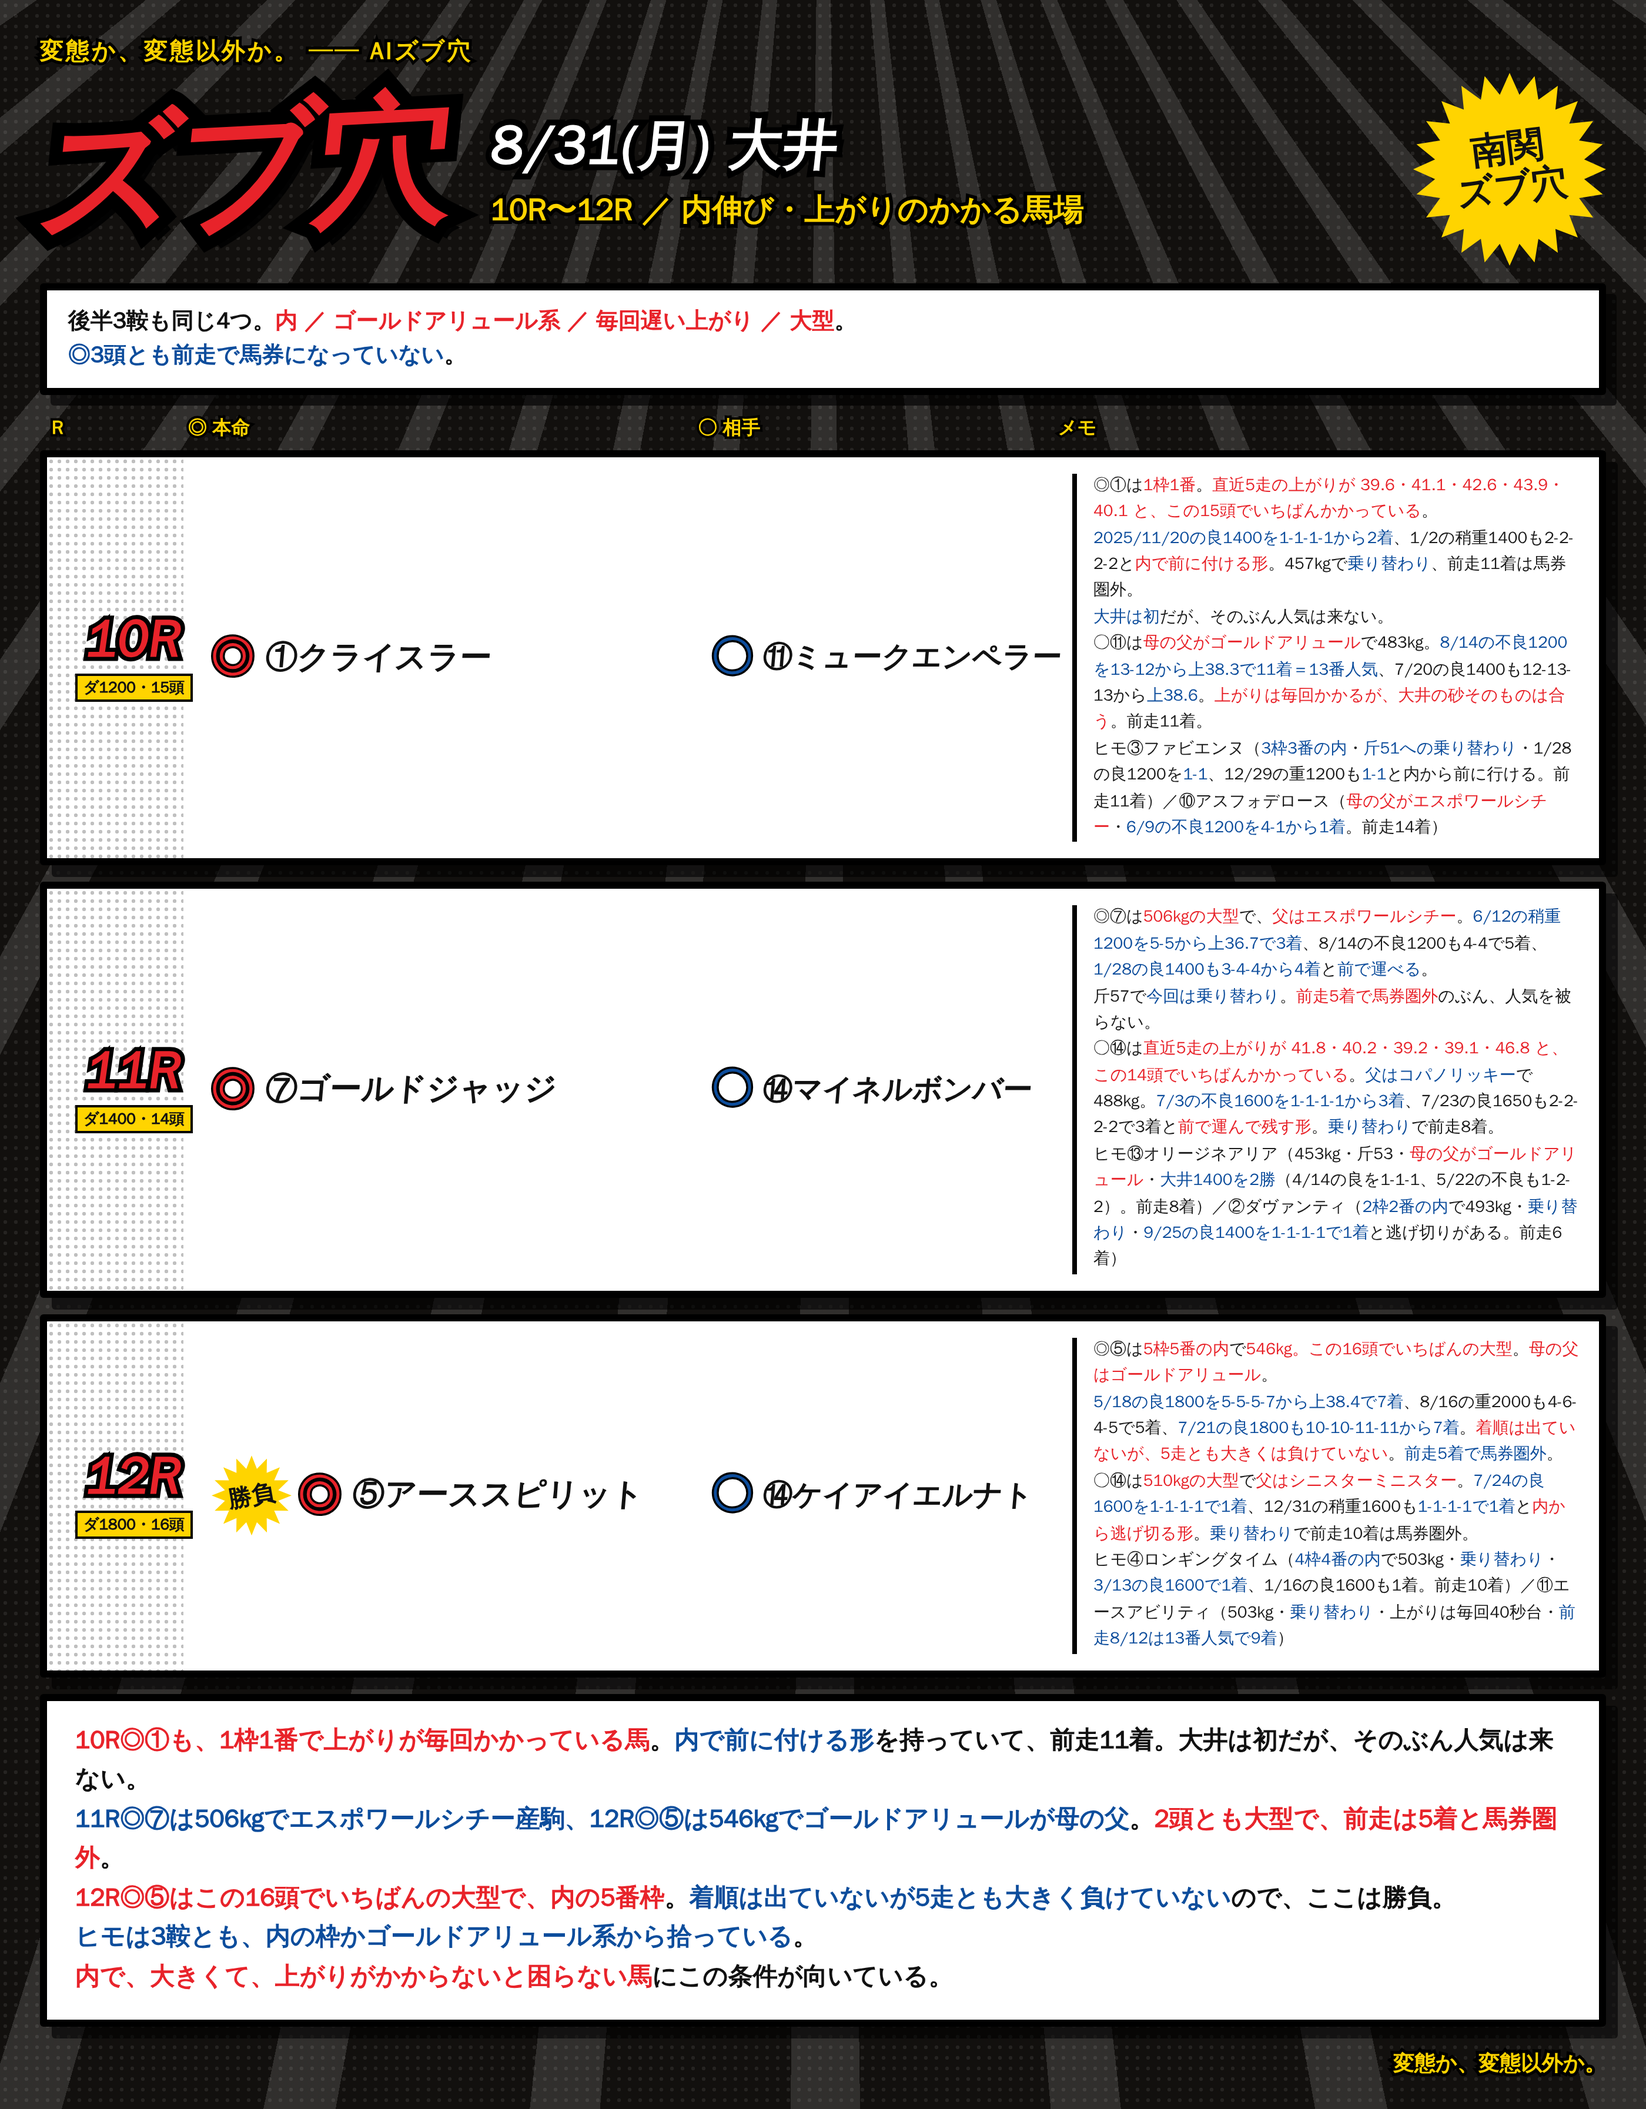
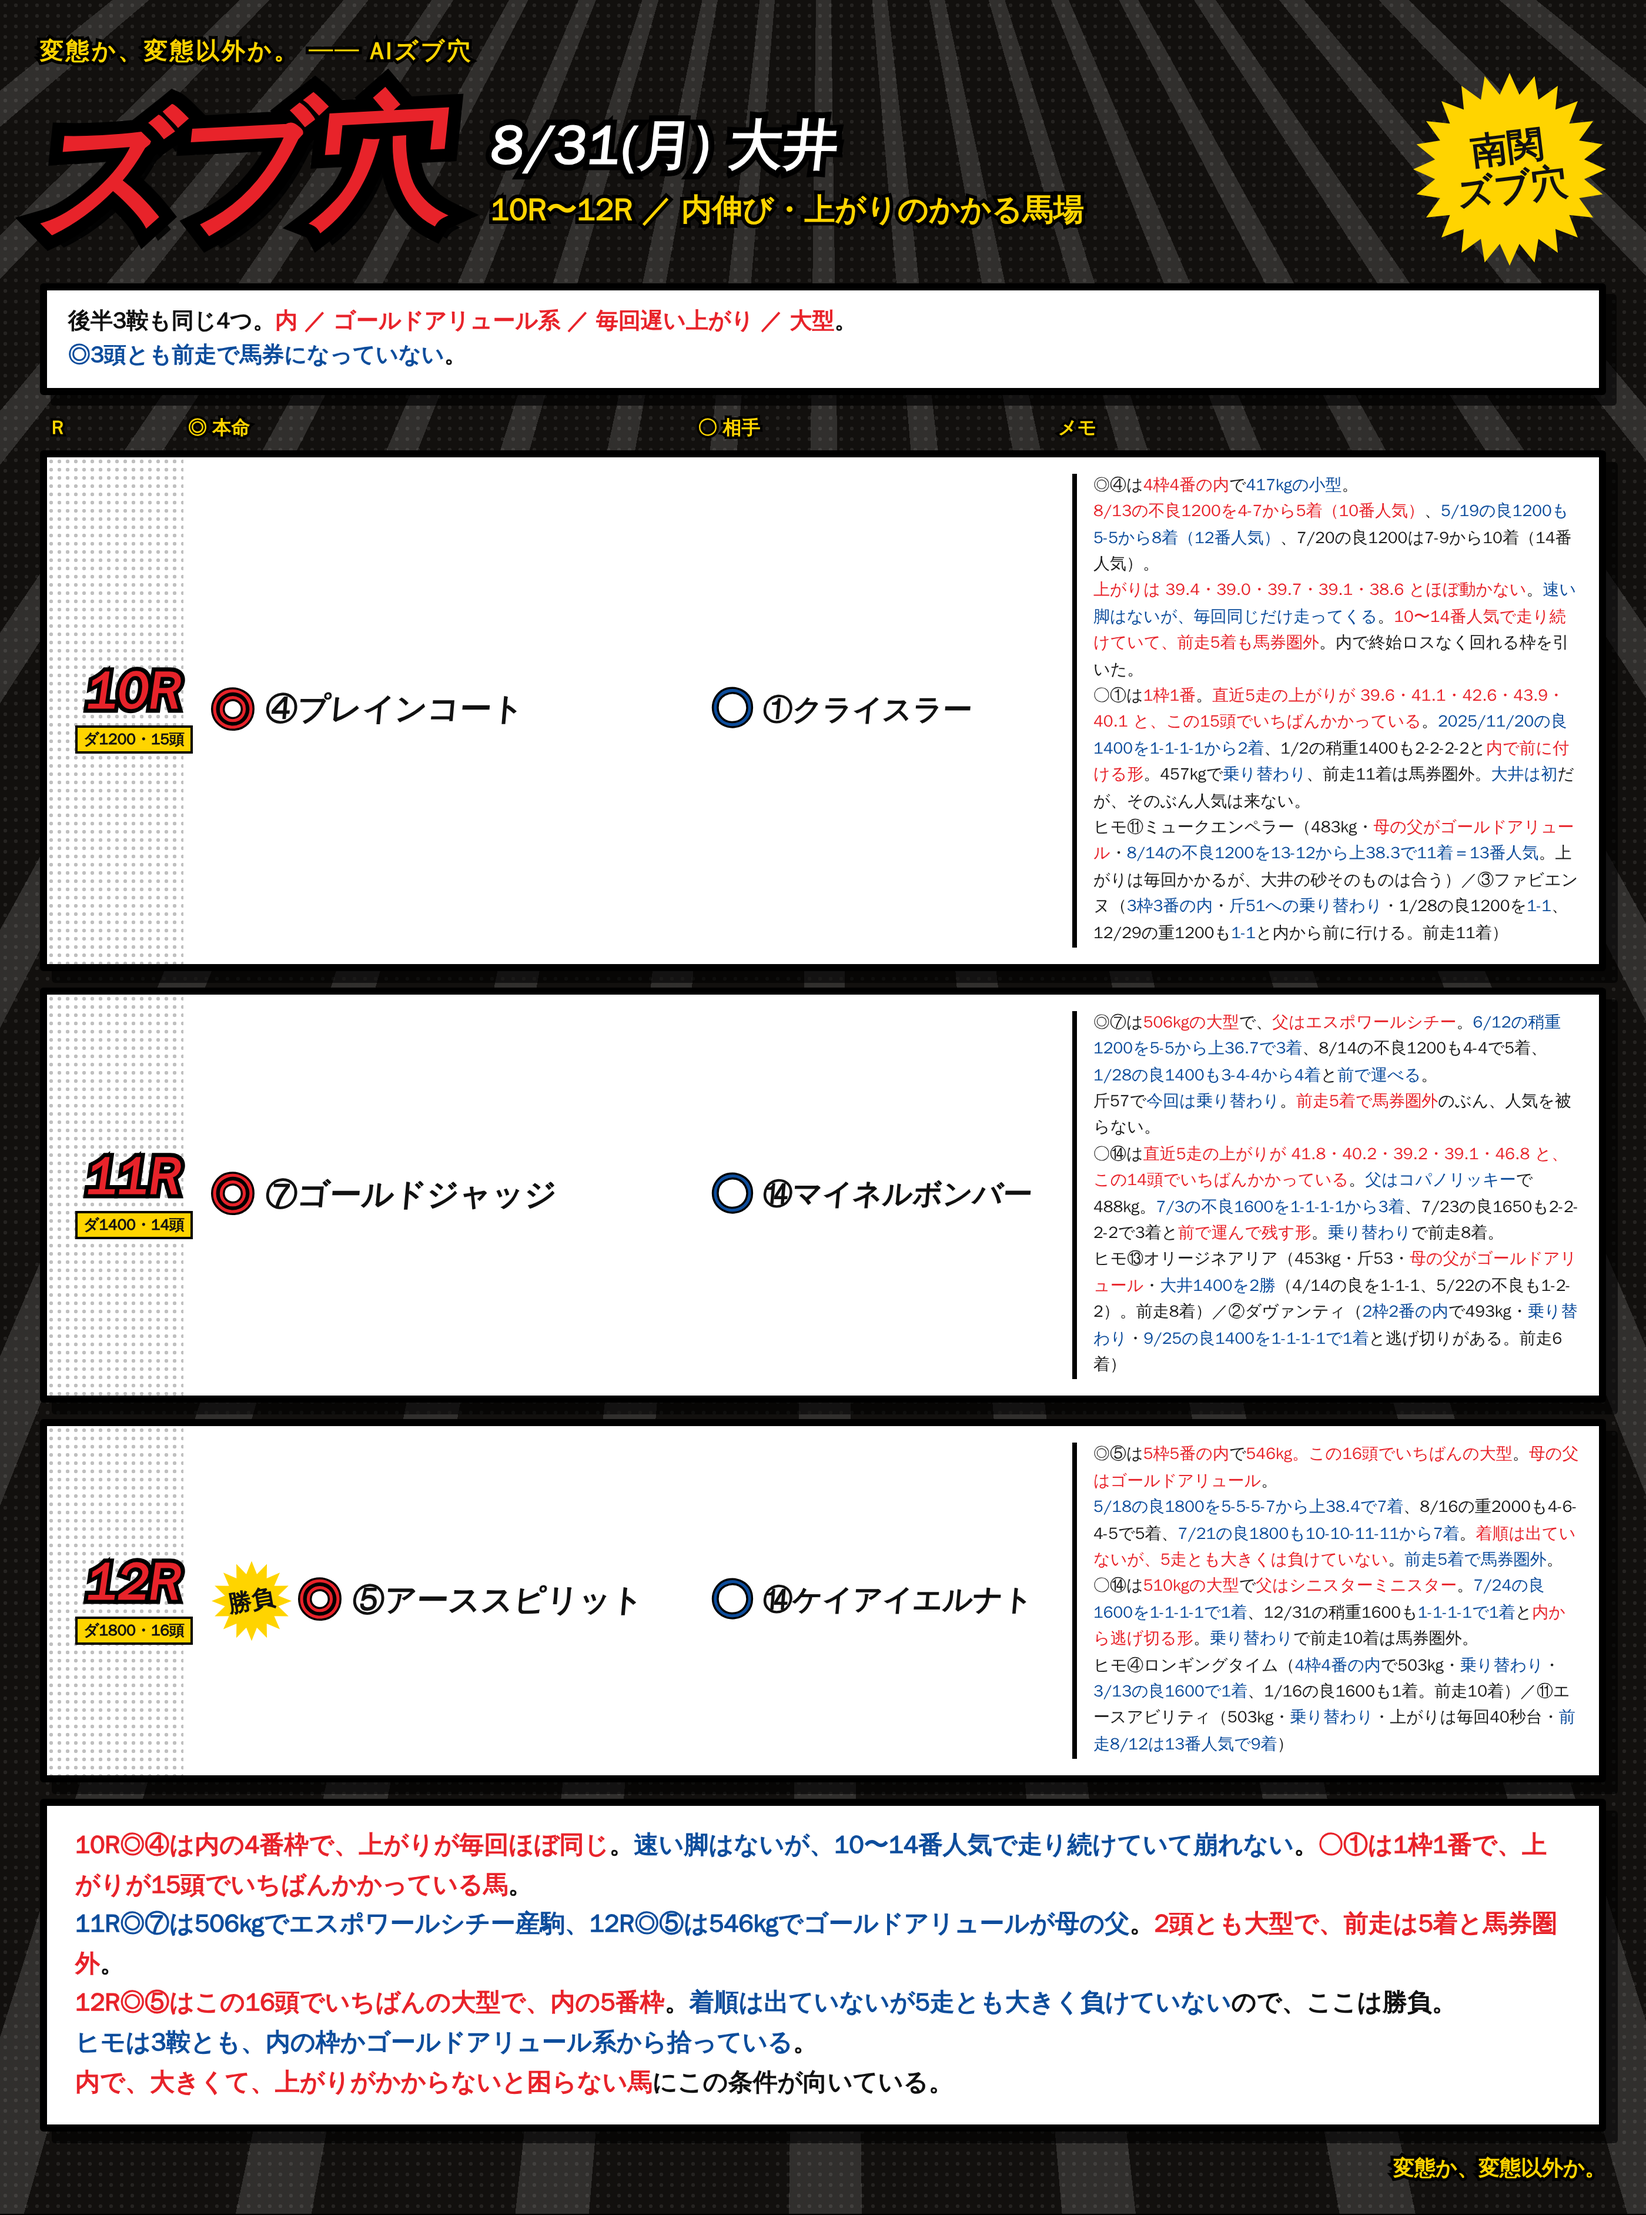
大井 8/31 10R◎を④プレインコートに変更
- 10R ◎④プレインコート ○①クライスラー ヒモ⑪③
  ④は4枠4番の内で417kgの小型。上がりが 39.4/39.0/39.7/39.1/38.6 とほぼ動かず、
  速い脚はないが毎回同じだけ走ってくる。10〜14番人気で走り続けていて前走5着＝馬券圏外。
  8/13 の不良1200 を 4-7 から5着（10番人気）
  ①クライスラーは1枠1番・上がりが15頭で最もかかる馬として○へ
  ⑪ミュークエンペラー（母父ゴールドアリュール）をヒモへ、⑩アスフォデロースを外す
- README も同内容に更新

Claude-Session: https://claude.ai/code/session_01RoHscZkr96FNaxQWvUqgEw

diff --git a/notes/live/2026-08-31/oi_10_12.html b/notes/live/2026-08-31/oi_10_12.html
@@ -84,9 +84,9 @@
 
   <div class="row"><div class="corner"></div>
     <div class="rN"><div class="n">10R</div><div class="d">ダ1200・15頭</div></div>
-    <div class="hm"><span class="mk">◎</span><span class="nm">①クライスラー</span></div>
-    <div class="at"><span class="mk2">○</span><span class="nm2">⑪ミュークエンペラー</span></div>
-    <div class="memo">◎①は<b class='r'>1枠1番</b>。<b class='r'>直近5走の上がりが 39.6・41.1・42.6・43.9・40.1 と、この15頭でいちばんかかっている</b>。<br><b>2025/11/20の良1400を1-1-1-1から2着</b>、1/2の稍重1400も2-2-2-2と<b class='r'>内で前に付ける形</b>。457kgで<b>乗り替わり</b>、前走11着は馬券圏外。<br><b>大井は初</b>だが、そのぶん人気は来ない。<br>○⑪は<b class='r'>母の父がゴールドアリュール</b>で483kg。<b>8/14の不良1200を13-12から上38.3で11着＝13番人気</b>、7/20の良1400も12-13-13から<b>上38.6</b>。<b class='r'>上がりは毎回かかるが、大井の砂そのものは合う</b>。前走11着。<br>ヒモ③ファビエンヌ（<b>3枠3番の内</b>・<b>斤51への乗り替わり</b>・1/28の良1200を<b>1-1</b>、12/29の重1200も<b>1-1</b>と内から前に行ける。前走11着）／⑩アスフォデロース（<b class='r'>母の父がエスポワールシチー</b>・<b>6/9の不良1200を4-1から1着</b>。前走14着）</div>
+    <div class="hm"><span class="mk">◎</span><span class="nm">④プレインコート</span></div>
+    <div class="at"><span class="mk2">○</span><span class="nm2">①クライスラー</span></div>
+    <div class="memo">◎④は<b class='r'>4枠4番の内</b>で<b>417kgの小型</b>。<br><b class='r'>8/13の不良1200を4-7から5着（10番人気）</b>、<b>5/19の良1200も5-5から8着（12番人気）</b>、7/20の良1200は7-9から10着（14番人気）。<br><b class='r'>上がりは 39.4・39.0・39.7・39.1・38.6 とほぼ動かない</b>。<b>速い脚はないが、毎回同じだけ走ってくる</b>。<b class='r'>10〜14番人気で走り続けていて、前走5着も馬券圏外</b>。内で終始ロスなく回れる枠を引いた。<br>○①は<b class='r'>1枠1番</b>。<b class='r'>直近5走の上がりが 39.6・41.1・42.6・43.9・40.1 と、この15頭でいちばんかかっている</b>。<b>2025/11/20の良1400を1-1-1-1から2着</b>、1/2の稍重1400も2-2-2-2と<b class='r'>内で前に付ける形</b>。457kgで<b>乗り替わり</b>、前走11着は馬券圏外。<b>大井は初</b>だが、そのぶん人気は来ない。<br>ヒモ⑪ミュークエンペラー（483kg・<b class='r'>母の父がゴールドアリュール</b>・<b>8/14の不良1200を13-12から上38.3で11着＝13番人気</b>。上がりは毎回かかるが、大井の砂そのものは合う）／③ファビエンヌ（<b>3枠3番の内</b>・<b>斤51への乗り替わり</b>・1/28の良1200を<b>1-1</b>、12/29の重1200も<b>1-1</b>と内から前に行ける。前走11着）</div>
   </div>
 
   <div class="row"><div class="corner"></div>
@@ -102,6 +102,6 @@
     <div class="at"><span class="mk2">○</span><span class="nm2">⑭ケイアイエルナト</span></div>
     <div class="memo">◎⑤は<b class='r'>5枠5番の内</b>で<b class='r'>546kg。この16頭でいちばんの大型</b>。<b class='r'>母の父はゴールドアリュール</b>。<br><b>5/18の良1800を5-5-5-7から上38.4で7着</b>、8/16の重2000も4-6-4-5で5着、<b>7/21の良1800も10-10-11-11から7着</b>。<b class='r'>着順は出ていないが、5走とも大きくは負けていない</b>。<b>前走5着で馬券圏外</b>。<br>○⑭は<b class='r'>510kgの大型</b>で<b class='r'>父はシニスターミニスター</b>。<b>7/24の良1600を1-1-1-1で1着</b>、12/31の稍重1600も<b>1-1-1-1で1着</b>と<b class='r'>内から逃げ切る形</b>。<b>乗り替わり</b>で前走10着は馬券圏外。<br>ヒモ④ロンギングタイム（<b>4枠4番の内</b>で503kg・<b>乗り替わり</b>・<b>3/13の良1600で1着</b>、1/16の良1600も1着。前走10着）／⑪エースアビリティ（503kg・<b>乗り替わり</b>・上がりは毎回40秒台・<b>前走8/12は13番人気で9着</b>）</div>
   </div>
-<div class="foot"><span class="r">10R◎①も、1枠1番で上がりが毎回かかっている馬</span>。<span class="b">内で前に付ける形</span>を持っていて、前走11着。大井は初だが、そのぶん人気は来ない。<br><span class="b">11R◎⑦は506kgでエスポワールシチー産駒、12R◎⑤は546kgでゴールドアリュールが母の父</span>。<span class="r">2頭とも大型で、前走は5着と馬券圏外</span>。<br><span class="r">12R◎⑤はこの16頭でいちばんの大型で、内の5番枠</span>。<span class="b">着順は出ていないが5走とも大きく負けていない</span>ので、ここは勝負。<br><span class="b">ヒモは3鞍とも、内の枠かゴールドアリュール系から拾っている</span>。<br><span class="r">内で、大きくて、上がりがかからないと困らない馬</span>にこの条件が向いている。</div>
+<div class="foot"><span class="r">10R◎④は内の4番枠で、上がりが毎回ほぼ同じ</span>。<span class="b">速い脚はないが、10〜14番人気で走り続けていて崩れない</span>。<span class="r">○①は1枠1番で、上がりが15頭でいちばんかかっている馬</span>。<br><span class="b">11R◎⑦は506kgでエスポワールシチー産駒、12R◎⑤は546kgでゴールドアリュールが母の父</span>。<span class="r">2頭とも大型で、前走は5着と馬券圏外</span>。<br><span class="r">12R◎⑤はこの16頭でいちばんの大型で、内の5番枠</span>。<span class="b">着順は出ていないが5走とも大きく負けていない</span>ので、ここは勝負。<br><span class="b">ヒモは3鞍とも、内の枠かゴールドアリュール系から拾っている</span>。<br><span class="r">内で、大きくて、上がりがかからないと困らない馬</span>にこの条件が向いている。</div>
 <div class="sig">変態か、変態以外か。</div>
 </div></div></body></html>

diff --git a/notes/live/2026-08-31/README.md b/notes/live/2026-08-31/README.md
@@ -352,17 +352,18 @@
 | 7R | ダ1600・13頭 | ⑧ビーチユーミング | ①トーセンディーン | ⑥⑦ |
 | 8R | ダ1400・14頭 | ⑧グランドターギー | ①ラッキーロジータ | ⑦④ |
 | 9R **勝負** | ダ2000・12頭 | ④サガノオウマサン | ⑨レディーキラー | ③⑪ |
-| 10R | ダ1200・15頭 | ①クライスラー | ⑪ミュークエンペラー | ③⑩ |
+| 10R | ダ1200・15頭 | ④プレインコート | ①クライスラー | ⑪③ |
 | 11R | ダ1400・14頭 | ⑦ゴールドジャッジ | ⑭マイネルボンバー | ⑬② |
 | 12R **勝負** | ダ1800・16頭 | ⑤アーススピリット | ⑭ケイアイエルナト | ④⑪ |
 
-- **7R○①・8R○①・10R◎①は、1枠1番でその組の上がりが最もかかっている馬**
+- **7R○①・8R○①・10R○①は、1枠1番でその組の上がりが最もかかっている馬**
+- **10R◎④は内の4番枠。上がりが 39.4・39.0・39.7・39.1・38.6 とほぼ動かず、10〜14番人気で走り続けている**
 - **7R◎⑧・8R◎⑧は、どちらも9〜10番人気のまま後ろから運んで大きくは負けていない馬**
   （8R⑧は今日が1600→1400の距離短縮）
 - **9R◎④は内の4番枠・乗り替わりで、大井2000に2着がある**
 - 大型：8R○①が508kg、11R◎⑦が506kg、12R◎⑤が546kg（9Rヒモ③も515kg、8Rヒモ⑦も504kg）
-- **◎6頭とも前走で馬券になっていない**（5着・7着・4着・11着・5着・5着）
-- ゴールドアリュール系：9R○⑨（父コパノリッキー）・10R○⑪（母父ゴールドアリュール）・
+- **◎6頭とも前走で馬券になっていない**（5着・7着・4着・5着・5着・5着）
+- ゴールドアリュール系：9R○⑨（父コパノリッキー）・10Rヒモ⑪（母父ゴールドアリュール）・
   11R◎⑦（父エスポワールシチー）・12R◎⑤（母父ゴールドアリュール）・12R○⑭（父シニスターミニスター）
 - **勝負は9Rと12Rの2つ**
 
